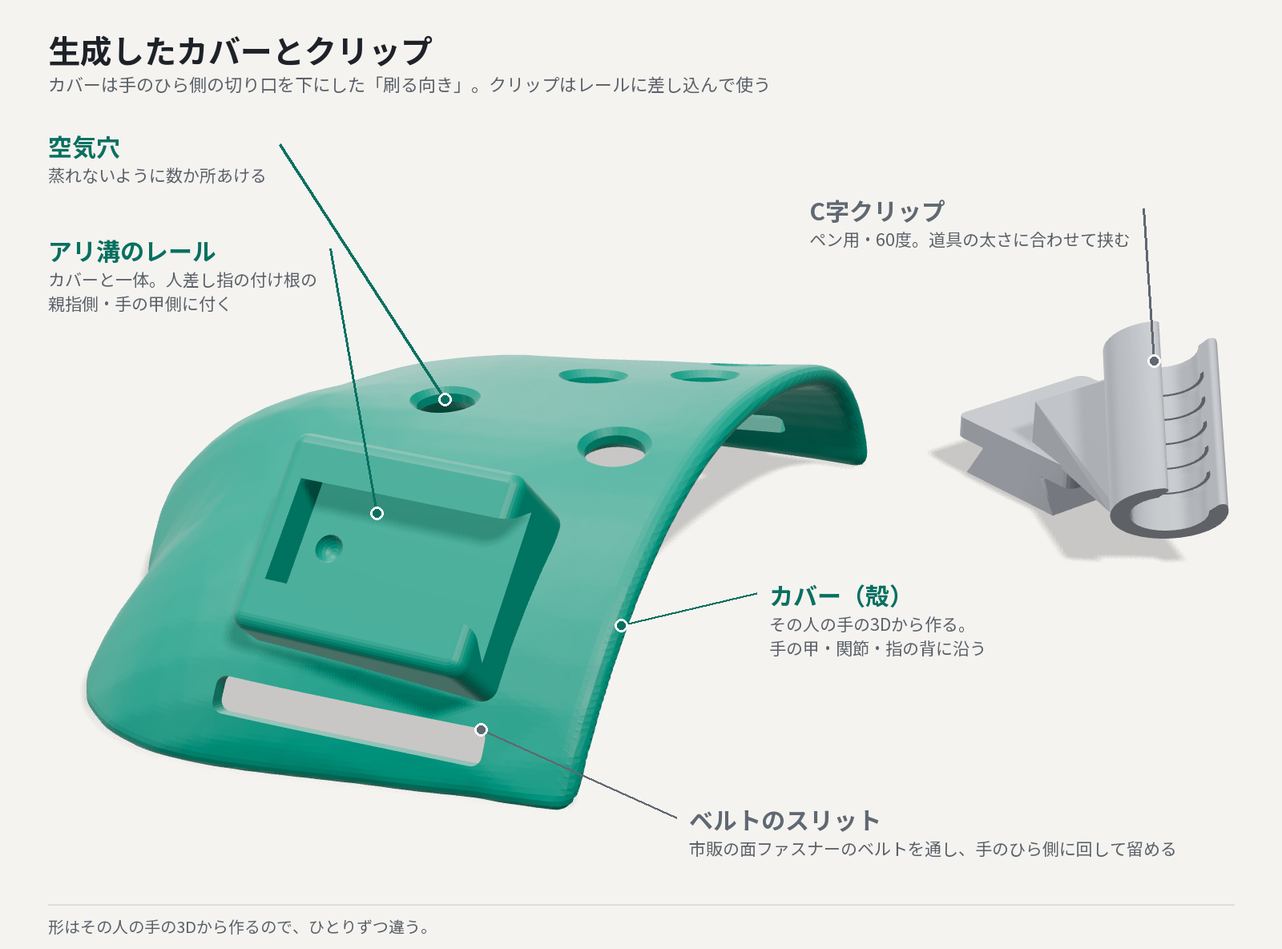
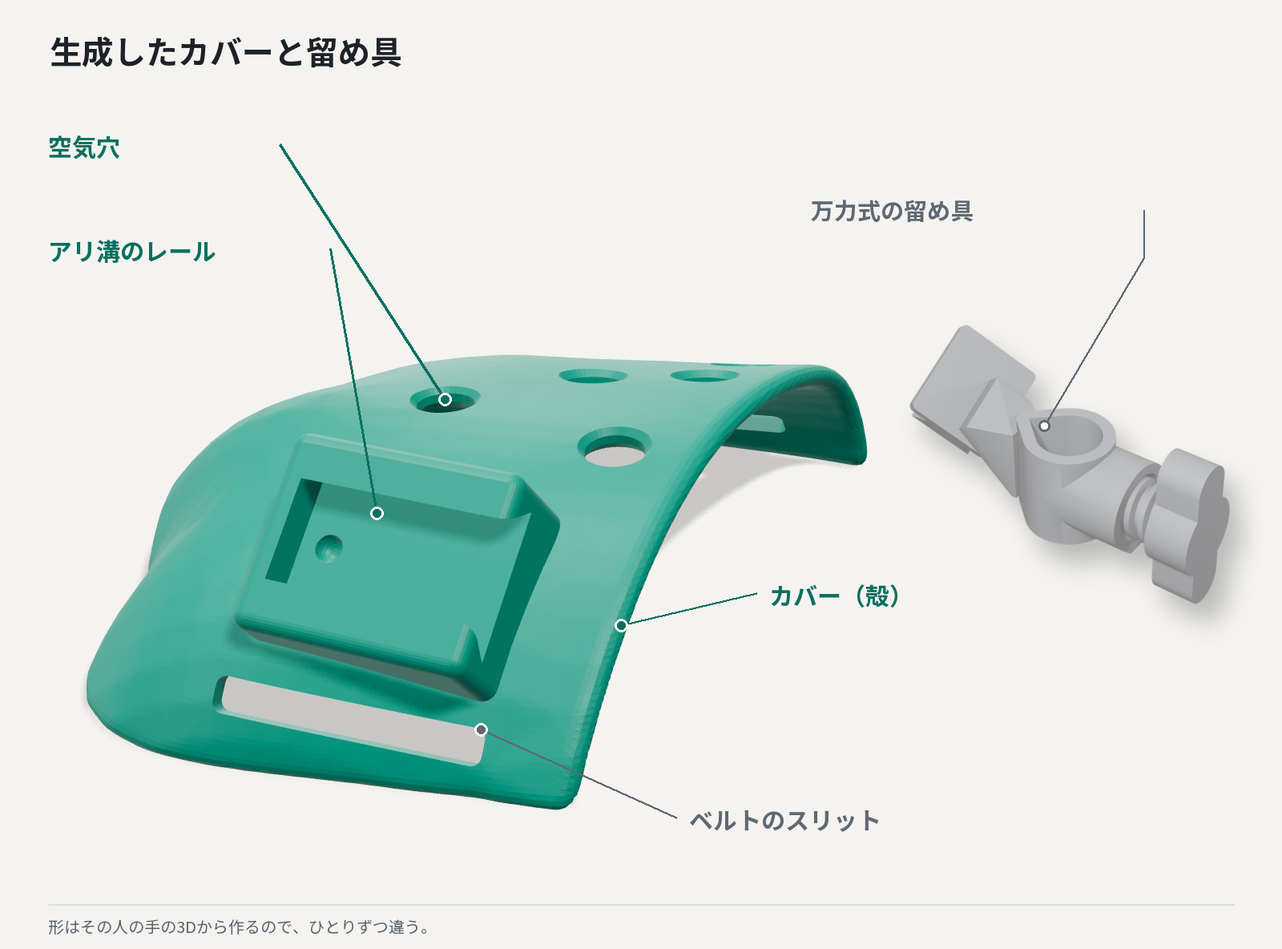
docs: 部品ライブラリを万力式の留め具に書き直す（全体の形の画像も差し替える）

diff --git a/docs/parts-library.md b/docs/parts-library.md
@@ -1,43 +1,45 @@
 # 部品ライブラリ（OpenSCAD）
 
 > **このドキュメントで決めたこと**
-> 1. 部品は、こぶしの外側にかぶせる「カバー」（空気穴・ベルトのスリット・アリ溝のレールを含む1つの部品）と、道具を挟む「C字クリップ」（道具ごと・角度ごとに刷る）、任意の「TPUの筒」にする。握り・ねじ締めコレット・ナットはやめる（[ADR-0011](adr/0011-dorsal-cover.md)・[ADR-0012](adr/0012-c-clip-dovetail.md)）。カバーの殻（`cover_shell.stl`）は生成APIのPythonが手の3Dメッシュから距離場で作り、OpenSCADはそれを `import()` して、スリット・空気穴・レールを付ける。
+> 1. 部品は、こぶしの外側にかぶせる「カバー」（空気穴・ベルトのスリット・アリ溝のレールを含む1つの部品）と、道具を挟む「万力式の留め具」（受け具とねじ。道具ごと・角度ごとに刷る）にする。留め具は 2026-11-24 に C字クリップから置き換えた（[ADR-0011](adr/0011-dorsal-cover.md)・[ADR-0012](adr/0012-c-clip-dovetail.md)・[ADR-0015](adr/0015-vise-holder.md)）。カバーの殻（`cover_shell.stl`）は生成APIのPythonが手の3Dメッシュから距離場で作り、OpenSCADはそれを `import()` して、スリット・空気穴・レールを付ける。
 > 2. 部品の引数の名前・単位・既定値・範囲は、`scad/catalog.json` を唯一の正とする。生成APIの範囲チェック、Geminiへのプロンプト、この表は、すべてそこから作る。寸法はmm、角度は度。
-> 3. すき間（カバーとこぶし、アリ溝）、クリップのしめしろ、最小の厚さ、ふちの丸みなど、着け心地と刷れるかどうかを左右する値は人が固定し、AIには変えさせない。11/9 の試し刷りでは、前の版の3Dモデルで刷ったカバーがメンバーのこぶしに合った。今の版では刷っていないので、値は `catalog.json` で「仮」のまま（2026-11-10）。
+> 3. すき間（カバーとこぶし、アリ溝）、留め具のねじのすき間、最小の厚さ、ふちの丸みなど、着け心地と刷れるかどうかを左右する値は人が固定し、AIには変えさせない。11/9 の試し刷りでは、前の版の3Dモデルで刷ったカバーがメンバーのこぶしに合った。今の版では刷っていないので、値は `catalog.json` で「仮」のまま（2026-11-10）。
 
-関連：[measurement.md](measurement.md)（採寸値と手の3Dメッシュ）、[generation-pipeline.md](generation-pipeline.md)（範囲チェック、殻の作り方）、[ADR-0010](adr/0010-hand-mesh-fusion.md)（手の3Dメッシュ）、[ADR-0011](adr/0011-dorsal-cover.md)（カバー方式）、[ADR-0012](adr/0012-c-clip-dovetail.md)（C字クリップとアリ溝）、[ADR-0013](adr/0013-clip-angle-variants.md)（角度違いのクリップ）、[notes/2026-11-07-cover-shape.md](notes/2026-11-07-cover-shape.md)（チームのメモ）
+関連：[measurement.md](measurement.md)（採寸値と手の3Dメッシュ）、[generation-pipeline.md](generation-pipeline.md)（範囲チェック、殻の作り方）、[ADR-0010](adr/0010-hand-mesh-fusion.md)（手の3Dメッシュ）、[ADR-0011](adr/0011-dorsal-cover.md)（カバー方式）、[ADR-0012](adr/0012-c-clip-dovetail.md)（アリ溝。C字クリップは置き換え済み）、[ADR-0013](adr/0013-clip-angle-variants.md)（角度違い）、[ADR-0015](adr/0015-vise-holder.md)（万力式の留め具）、[notes/2026-11-07-cover-shape.md](notes/2026-11-07-cover-shape.md)（チームのメモ）
 
 ---
 
 ## 1. 全体の形
 
-![部品の全体の形：生成したカバー（空気穴・アリ溝のレール・ベルトのスリット付き）と、ペン用のC字クリップ](images/parts-overview.png)
+![部品の全体の形：生成したカバー（空気穴・アリ溝のレール・ベルトのスリット付き）と、ペン用の万力式の留め具](images/parts-overview.png)
 
-- 部品：①カバー（殻＋空気穴＋スリット＋レール。1つのSTL）②C字クリップ（道具の太さと角度ごとに1つのSTL）③TPUの筒（任意）④ベルト（市販の面ファスナー。刷らない）⑤フェルトかスポンジ（市販。カバーの内側に貼る）
+- 部品：①カバー（殻＋空気穴＋スリット＋レール。1つのSTL）②万力式の留め具（受け具とねじ。道具の太さと角度ごとに、2つを1枚に並べた1つのSTL）③ベルト（市販の面ファスナー。刷らない）④フェルトかスポンジ（市販。カバーの内側に貼る）
 - **座標**：手の座標系（[measurement.md §8.1](measurement.md#81-手の座標系)：原点＝手首の関節、x＝人差し指の付け根→小指の付け根、y＝手首→中指の付け根からx成分を除いた向き、z＝x×y）。殻の計算は正準形（右手は左右反転して左手として扱う。z は手のひら側）で行い、生成APIが最後に右手なら鏡像に戻してから `cover_shell.stl` と位置の値を書く。OpenSCADは**実際の手の座標**のまま描き、`hand` 引数で鏡像は取らない（二重に反転しないため）。そのため、右手と左手のカバーは自然に互いの鏡像になる
-- C字クリップとTPUの筒は、手の座標に関係なく、自分の座標（クリップの輪の軸をZ）で描く。左右で同じ形を使える（アリ溝の凸は左右対称）
-- 印刷の向き：カバーは手のひら側の切り口を下にして刷り、殻の内側にサポートを付ける（殻なので避けられない。跡はフェルトで隠れる）。クリップは舌（アリ溝の凸）の底を机に置く向きで、輪の下にサポートが要る（§4.5。2026-11-08 に横張り出しの形にしてから。それまでは「輪が机と平行」）。§7
+- 留め具は、レールの座標（§4.4）で描き、生成APIが `rail_origin`・`rail_frame` で手の座標へ置く。左手は `hand="left"` で描く（鏡に映すと、めねじが左ねじになりねじが入らない。ねじは左右で同じ）
+- 印刷の向き：カバーは手のひら側の切り口を下にして刷り、殻の内側にサポートを付ける（殻なので避けられない。跡はフェルトで隠れる）。留め具の受け具は道具の軸を立てた向きで刷り、レールに入る舌の下にサポートが要る。ねじはつまみを下にして刷る（§4.5）。§7
 
 ## 2. ファイル構成
 
 | パス | 中身 |
 |---|---|
-| `scad/main.scad` | 入口。全引数の既定値をトップレベル変数で宣言し、`mode` に応じて部品を描く。生成APIは `-D` でこの変数だけを上書きする |
+| `scad/main.scad` | 入口（カバー）。全引数の既定値をトップレベル変数で宣言し、`mode` に応じて部品を描く。生成APIは `-D` でこの変数だけを上書きする |
+| `scad/vise_main.scad` | 入口（留め具＝万力式）。`mode="clip"` で刷る並び（受け具とねじを1枚）、`mode="assembled"` で手の座標に組んだ形。ねじに使う BOSL2 を、カバーを描くときに読み込まないよう `main.scad` と分けた。`-D` の名前は同じ（`c_clip_tool_d_mm`・`c_clip_angle_deg`・`hand`・`rail_origin`・`rail_frame`・`quality`） |
 | `scad/parts/cover.scad` | カバー。`import(cover_shell_file)` で読んだ殻から、スリットと空気穴を引き、レールを足し、最後に `import(cover_keepout_file)`（手を c だけ広げた立体）を引いて、内側の面を守る |
 | `scad/parts/strap_slits.scad` | ベルトのスリット（引く形） |
 | `scad/parts/air_holes.scad` | 空気穴（引く形。両端の縁を0.8mm面取りする） |
 | `scad/parts/rail.scad` | アリ溝のレール（カバー側。溝と、止めの出っ張りを受けるくぼみ）。土台は殻の中へ入り込ませる（`RAIL_FOOT_MM`＝6mm。スリットを避けて台をずらしたときは `rail_foot_mm` で最大12mmまで深くする） |
-| `scad/parts/c_clip.scad` | C字クリップ（輪、入口の面取り、内側の溝、輪と板をつなぐ腕、アリ溝の凸と止めの出っ張り、角度。根元の切り欠きは 2026-11-08 にやめた）。TPUの筒の形（`tpu_sleeve_local`）もここにある |
-| `scad/parts/tpu_sleeve.scad` | TPUの筒だけを刷る試し用の入口（任意。MVPでは使わない） |
+| `scad/parts/vise_holder.scad` | 万力式の留め具（V字の受け、めねじのボス、T字のつまみのねじ。太さ `tool_d` から挟める範囲と形を決める） |
+| `scad/parts/holder_base.scad` | 留め具の土台（レールに入る舌と板、腕。道具の軸の向き。C字クリップの `clip_tongue` をそのまま使う） |
+| `scad/parts/c_clip.scad` | もとの C字クリップ。今はレールに入る舌（`clip_tongue`）と、道具の軸の向き（`clip_axis`）を留め具が使う |
 | `scad/lib/common.scad` | 固定値（§3）と、角を丸める共通処理 |
-| `scad/view.scad` | 確認用画像の描画専用。カバー・クリップのSTLを読み込み、手の3Dメッシュ（`hand_file`、半透明の肌色）と道具の目安（赤い棒）を添える |
+| `scad/view.scad` | 確認用画像の描画専用。カバー・留め具のSTLを読み込み、手の3Dメッシュ（`hand_file`、半透明の肌色）と道具の目安（赤い棒）を添える |
 | `scad/test_pieces/*.scad` | 試し刷り用の部品（§6） |
-| `scad/vendor/BOSL2/` | BOSL2（BSD 2-Clause）。同梱しているが、今の `.scad` はどれも読み込んでいない（アリ溝と角の丸めは `rail.scad`・`c_clip.scad`・`common.scad` で自前で描く）。ねじにも使わなくなった |
+| `scad/vendor/BOSL2/` | BOSL2（BSD 2-Clause）。留め具のねじ（台形ねじ M12・ピッチ3mm）を描くのに使う（`vise_main.scad` だけが読み込む） |
 | `scad/catalog.json` | 部品と引数の定義（§4の表の元データ）。生成APIとプロンプトが読む |
 
 `-D` で渡す変数の名前は `<部品ID>_<引数名>` とする（例：`cover_edge_radius_mm=2`）。配列は `[12.0,40.5,-8.2]`、真偽値は `true`/`false`、選択肢は `"cover"` のように文字列で渡す。位置と向き（スリット・空気穴・レールの中心と向き）は、生成APIが手のメッシュから計算した値を配列で渡す（§5）。ファイルのパス（`cover_shell_file`、`cover_keepout_file`、`view.scad` の `hand_file`）は、生成APIがジョブの作業フォルダの中に作ったファイルの絶対パスだけを渡す（[generation-pipeline.md §6.3](generation-pipeline.md#63-コマンドの組み立て)）。
 
-**殻はOpenSCADでは作らない**。手の3Dメッシュの面から一定の距離の層を、OpenSCADで作るには `minkowski()` か `offset` が要るが、数千〜1万面のメッシュでは数分〜数十分かかる。距離場で作れば十秒台で、切り口のふちも同時に丸められる（[generation-pipeline.md §6.2](generation-pipeline.md#62-殻cover_shellstlの作り方)）。そのため、**殻（と内側を守る立体）は生成APIのPython、穴・スリット・レール・クリップはOpenSCAD**と分ける。
+**殻はOpenSCADでは作らない**。手の3Dメッシュの面から一定の距離の層を、OpenSCADで作るには `minkowski()` か `offset` が要るが、数千〜1万面のメッシュでは数分〜数十分かかる。距離場で作れば十秒台で、切り口のふちも同時に丸められる（[generation-pipeline.md §6.2](generation-pipeline.md#62-殻cover_shellstlの作り方)）。そのため、**殻（と内側を守る立体）は生成APIのPython、穴・スリット・レール・留め具はOpenSCAD**と分ける。
 
 前の版のファイル `grip_body.scad`・`collet.scad`・`collet_nut.scad`・`thumb_rest.scad`・`strap_slot.scad`・`test_pieces/thread_test.scad`・`carve_test.scad`・`size_gauge.scad` は消す（握りとねじ締め式をやめたため）。
 
@@ -46,17 +48,16 @@
 | 名前 | 値 | 単位 | 理由・決め方 |
 |---|---|---|---|
 | `NOZZLE_MM` | 0.4 | mm | 一般的なノズルの径。大学のプリンタの実際の値は要確認 |
-| `MIN_WALL_MM` | 2.0 | mm | ノズル5本分。これより薄い壁は割れやすい。カバーの厚み、スリット・空気穴とふちの間の残り、クリップの壁の下限に使う |
+| `MIN_WALL_MM` | 2.0 | mm | ノズル5本分。これより薄い壁は割れやすい。カバーの厚み、スリット・空気穴とふちの間の残りの下限に使う |
 | `MIN_EDGE_RADIUS_MM` | 1.5 | mm | 手に当たる所の角の丸みの最小値（安全の決まり「角を丸める」） |
-| `MAX_OVERHANG_DEG` | 45 | 度 | サポートなしで刷れる張り出しの上限。クリップとカバーの外側に使う（カバーの内側はサポートを付ける） |
+| `MAX_OVERHANG_DEG` | 45 | 度 | サポートなしで刷れる張り出しの上限。カバーの外側に使う（カバーの内側と、留め具の舌の下はサポートを付ける） |
 | `HAND_CLEARANCE_MM`（c） | 1.5（仮） | mm | カバーの内側の面と、こぶしの面のすき間。**フェルトの厚みを含む**。採寸のずれと、メッシュが手の形の型に寄る分も吸収する。前の版の「握りのすき間0.5mm」とは役割が違う（握りは手が食い込む前提、カバーはかぶせるだけ）。`clearance_test` で1.0／1.5／2.0を比べる予定だった。11/9 は前の版の3Dモデルのカバーを刷ってこぶしに合ったが、今の版では刷っていないので仮のまま |
 | `FELT_THICKNESS_MM` | 1.0（要確認） | mm | 内側に貼るフェルトかスポンジの厚み（市販品）。c に含める。実際の品を決めてから直す |
 | `DOVETAIL_CLEARANCE_MM` | 0.25（仮） | mm | アリ溝のすき間（片側）。`dovetail_test` で0.2／0.25／0.3を比べる予定だった。値は仮のまま（2026-11-10） |
-| `CLIP_INTERFERENCE_MM` | 0.3（仮） | mm | クリップの内径を道具の太さより小さくする量（しめしろ）。`clip_test` で0.2／0.3／0.4を比べる予定だった。値は仮のまま（2026-11-10） |
-| `CLIP_ENTRY_CHAMFER_DEG` | 30 | 度 | クリップの入口（開き）の面取りの角度。押し込む力を減らす |
-| `CLIP_ROOT_NOTCH_MM` | 0.6 | mm | （使っていない。2026-11-08 に切り欠きをやめた：応力が集まって割れやすくなるため）開きの反対側（根元）の外側に入れる切り欠きの深さ |
-| `CLIP_GROOVE` | 幅1.0・深さ0.4・間隔3.0 | mm | `grip_ribs=true` のときの、内側の細い溝（道具が滑りにくくなる） |
-| `TPU_SLEEVE_WALL_MM` | 1.2（仮） | mm | TPUの筒の厚み |
+| `VISE_SCREW_SLOP_MM` | 0.10 | mm | 留め具のねじのすき間（BOSL2 の `$slop`）。2026-11-24 の試し刷り（PLA）で回った値（`scad/parts/vise_holder.scad`） |
+| `VISE_RANGE_MM` | 2.5 | mm | 1つの留め具で挟める太さの幅（聞き取りの太さから上下に） |
+| `VISE_DMAX_MIN_MM` | 12 | mm | 受け具の穴の大きさの下限（いちばん太い道具の太さで）。ねじ（直径12mm）が通るため |
+| `CLIP_INTERFERENCE_MM`・`CLIP_ENTRY_CHAMFER_DEG`・`CLIP_ROOT_NOTCH_MM`・`CLIP_GROOVE`・`TPU_SLEEVE_WALL_MM` | — | — | C字クリップとTPUの筒の値。留め具を万力式にしてからは使っていない（`catalog.json` には残してある） |
 | `WRIST_FREE_MM` | 25 | mm | 手首の関節から、カバーが来てはいけない距離（y の向き）。`wrist_cut_mm` の下限。手首の動きを妨げない（安全の決まり） |
 | `THUMB_EXTRA_MM` | 2.0 | mm | 親指のカプセルを、c＋t よりさらに太らせて避ける量（親指を包まない） |
 | `CAVITY_VOXEL_MM` | 0.5 | mm | 殻を作るときの距離場の格子の間隔。名前は第1弾のくり抜き（cavity）のまま使う。0.5mmで、くり抜きのスパイクでは約140万点・約12秒 |
@@ -95,7 +96,7 @@
 | `shell_file`（殻。手の座標、mm、閉じた面のSTL） | パス | — | 生成APIが作業フォルダに作った `cover_shell.stl` だけ | 採寸（生成APIが作る。[generation-pipeline.md §6.2](generation-pipeline.md#62-殻cover_shellstlの作り方)） | 変えられない（Geminiの出力にも含めない） |
 | `keepout_file`（手を c だけ広げた立体。内側の面を守る） | パス | — | 生成APIが作った `cover_keepout.stl` だけ | 採寸 | 変えられない |
 
-- 殻の形（`cover_shell.stl`）は、手のメッシュと c・t・`palm_cut_offset_mm`・`wrist_cut_mm`・`edge_radius_mm` で決まる。この5つのどれかを変えたら作り直す（10〜40秒の見込み）。空気穴・スリット・レール・クリップだけの変更では作り直さない
+- 殻の形（`cover_shell.stl`）は、手のメッシュと c・t・`palm_cut_offset_mm`・`wrist_cut_mm`・`edge_radius_mm` で決まる。この5つのどれかを変えたら作り直す（10〜40秒の見込み）。空気穴・スリット・レール・留め具だけの変更では作り直さない
 - `keepout_file` は手のメッシュと c だけで決まり、採寸の版ごとに1回作る
 
 ### 4.2 空気穴 `air_holes`（必須）
@@ -127,61 +128,53 @@
 | `depth_mm`（溝の深さ） | mm | 4 | 固定 |
 | `length_mm` | mm | 24 | 固定 |
 | `dovetail_deg`（アリ溝の角度。溝の壁と底のなす角） | 度 | 60 | 固定 |
-| `detent_mm`（止めの出っ張りの高さ。クリップ側に凸、レール側にくぼみ） | mm | 0.6 | 固定 |
+| `detent_mm`（止めの出っ張りの高さ。留め具側に凸、レール側にくぼみ） | mm | 0.6 | 固定 |
 | `origin`・`frame`（レールの位置と向き） | mm[3]・[3][3] | — | ルール（§5：人差し指の中手骨の、親指側かつ手の甲側の外面。長さの向きは手の y（手首→指先）、外向きは正準形の −x と −z の間の45度に固定） |
 
-- レールは、クリップを差し替える受け口なので、寸法は全部固定にし、AIには変えさせない（すべてのクリップと合わなくなるため）。すき間 `DOVETAIL_CLEARANCE_MM` はクリップの凸の側で取る
+- レールは、留め具を差し替える受け口なので、寸法は全部固定にし、AIには変えさせない（すべての留め具と合わなくなるため）。すき間 `DOVETAIL_CLEARANCE_MM` は留め具の凸（舌）の側で取る
 - 土台は殻の中へ `RAIL_FOOT_MM`（6mm）入り込ませて一体にし（スリットを避けて台をずらしたときは `rail_foot_mm` で最大12mm）、内側へ出た分は `keepout_file` で削る（手に当たらない）。手のひら側の面より先に出た角も `cover_palm_plane` で切る
-- レールの両端と角は `MIN_EDGE_RADIUS_MM` 以上で丸める。溝は手首側（−Y）の端が開き、指先側の端は閉じている。クリップは手首側の端から溝に沿って差し込む。止めのくぼみは、閉じた端の壁から3mmの位置
+- レールの両端と角は `MIN_EDGE_RADIUS_MM` 以上で丸める。溝は手首側（−Y）の端が開き、指先側の端は閉じている。留め具は手首側の端から溝に沿って差し込む。止めのくぼみは、閉じた端の壁から3mmの位置
 
-### 4.5 C字クリップ `c_clip`（必須）
+### 4.5 万力式の留め具 `c_clip`（必須）
+
+2026-11-24 に C字クリップから置き換えた（[ADR-0015](adr/0015-vise-holder.md)）。部品の ID と引数の名前は今まで通り `c_clip`。V字の受けに道具の柄を寄せ、T字のつまみの付いたねじで押し付けて挟む。ねじで締めるので、刷りの誤差が締まり具合に効かない。
 
 | 引数 | 単位 | 既定値 | 範囲 | 決め方 | AIが変えてよい幅 |
 |---|---|---|---|---|---|
 | `tool_d_mm`（道具の柄の太さ） | mm | 聞き取りの値 | 3〜20 | 聞き取り | 変えられない |
-| `inner_d_mm`（輪の内径） | mm | `tool_d_mm − CLIP_INTERFERENCE_MM`（TPUの筒を使うときは筒の外径） | — | ルール | 変えられない |
-| `wall_mm`（輪の壁の厚さ） | mm | 2.0 | （1.6〜3.0。`clip_test` で決め直す予定だったが、2.0 のまま。2026-11-10） | 固定（2026-11-08） | 変えられない |
-| `opening_ratio`（開きの幅 ÷ 道具の太さ） | 比 | 0.75 | （0.70〜0.80） | 固定（2026-11-08） | 変えられない |
-| `height_mm`（輪の高さ＝道具を挟む長さ） | mm | 20（2026-11-08 に 12 から） | （8〜20） | 固定（2026-11-08） | 変えられない |
-| `angle_deg`（道具の立て具合＝机に対する傾き） | 度 | やりたいことから（§5） | 60／70／80（2026-11-08 に 0／20／40 から変えた） | AI（理由を書く）・ユーザーがプレビューで変えられる | 選択肢の中で自由 |
-| `grip_ribs`（内側の細い溝） | 真偽 | true | — | 固定（2026-11-08） | 変えられない |
-| `count`（クリップの数） | 個 | 1 | 1〜2 | AI（先が細くなる筆の柄なら2を勧める） | 範囲内なら自由（レールは1本なので、2個目は同じ形の予備。形の計算では使っていない） |
-| `tpu_sleeve`（内側にTPUの筒を入れる） | 真偽 | false | — | 固定（MVPでは使わない。2026-11-08） | 変えられない |
+| `angle_deg`（道具の立て具合＝机に対する傾き） | 度 | やりたいことから（§5） | 60／70／80 | AI（理由を書く）・ユーザーがプレビューで変えられる | 選択肢の中で自由 |
+| `count`（留め具の数） | 個 | 1 | 1〜2 | AI（先が細くなる筆の柄なら2を勧める） | 範囲内なら自由（レールは1本なので、2個目は同じ形の予備。形の計算では使っていない） |
+| `inner_d_mm`・`wall_mm`・`opening_ratio`・`height_mm`・`grip_ribs`・`tpu_sleeve` | — | — | — | 固定（C字クリップの引数。万力式では使わない） | 変えられない |
 
-- **先に作っておいた固定STLから選ぶ**（[ADR-0012](adr/0012-c-clip-dovetail.md) の 4.）：道具の太さ 4〜16mm を 0.25mm 刻み × 角度 60／70／80度 の147個（右手の形。左手はレールの座標で X を反転した鏡像を使う）を、コンテナを作るときに `python -m app.geometry.cliplib` で描いて `scad/library/c_clip/` に置く（`<variant>.print.stl`＝刷る向き、`<variant>.rail.stl`＝レールの座標、`index.json`＝引数・sha256・R6fの結果）。生成のときは `tool_d_mm` を刻みに丸めて選び、プレビューはレールの位置へ動かすだけ、印刷用はファイルをそのまま使う（版に `clip.variant` を残す）。刻みの外や固定値と違う引数のときだけ、その場で OpenSCAD で描く
-- 形：輪（内径 `inner_d_mm`、外径 `inner_d_mm + 2 × wall_mm`、高さ `height_mm`）の一部を、幅 `opening_ratio × tool_d_mm` で開けた C の形。入口を `CLIP_ENTRY_CHAMFER_DEG` で面取りし、`grip_ribs` なら内側に `CLIP_GROOVE` の溝を付ける（根元の切り欠き `CLIP_ROOT_NOTCH_MM` は 2026-11-08 にやめた。差し込むときの応力が集まり、見積もりで 27→37MPa と PLA の積層の境目の強さを超えるため）。**ペンは上から（軸の向きに）差し込む**。開きから横に押し込むと、輪の応力が約61MPaになり PLA の強さを超える（割れるおそれ）。輪の高さ20mmは、ペン先までのてこ（約90mm）でのぐらつきを減らすため（ペン先を横に2N押したときの輪の端の力：12mm で約15N → 20mm で約9N。締め付けの摩擦は約13N → 約21N）。輪の背に、レールに差し込むアリ溝の凸（レールの溝から `DOVETAIL_CLEARANCE_MM` を引いた形、長さ `rail.length_mm − 1`）と、止めの出っ張りを付ける
-- 形の続き（2026-11-08、横張り出し）：輪はレールの上面の中心から**親指側へ20mm・手のひら側へ6mm・指先側へ5mm**張り出した所に置き、板の上の太い根元の台（8×12mm・高さ5mm）から輪へ向かって細くなる腕（輪の側で幅6mm）でつなぐ（ペンを押す力は根元に集まるので、根元を太くする。板も2.5mmに厚くした）。レールの外向きは手の甲の法線と親指側の横向きのちょうど間（45度）なので、レールの座標では 手の甲向き＝`[s·side, 0, s]`、親指側＝`[−s·side, 0, s]`、指先向き＝`[0, 1, 0]`（s＝1/√2、side は右手 +1・左手 −1。左右は鏡像）
-- 角度：机に手の甲を上にして置いた姿勢での、机に対する道具の傾き（90度が垂直）。道具の軸＝`指先向き·cos(角度) − 手の甲向き·sin(角度)`。開きは親指側（外側から押し込む）。道具はこぶしの親指側の横を通り、人差し指の付け根の横あたりで机に届く（[ADR-0013](adr/0013-clip-angle-variants.md)）。描いたあとに R6h で手・カバーとのすき間と机に届く距離を測る
-- 刷る向き：舌（アリ溝の凸）の底を机に置く。輪は約50度傾いて宙に出るので、スライサーのサポートが要る（R6f_overhang に出る）
+- **挟める太さ**：`tool_d_mm ± 2.5mm`。ただし受け具の穴は、ねじ（直径12mm）が通る大きさ（いちばん太い道具12mm用、穴の径13mm）より小さくしない。そのため、聞き取りの太さが9.5mm以下なら上限は12mm。細い道具（挟める下限が約5.4mm未満）では、ねじの先を直径6mmに細くして、V字の奥まで届かせる
+- **形**：受け具は、手の側（レールの側）を90度のV字にした穴と、外側（親指側）に伸ばしためねじのボス（台形ねじ M12・ピッチ3mm、すき間 `$slop` 0.10）。高さ（道具を挟む長さ）は20mm、穴のまわりの肉は2.5mm。ねじは長さを「いちばん細い道具に届き、つまみが受け具から3mm離れる」に合わせ、T字のつまみ（長さ32mm・太さ9mm）を付ける
+- **置き場所**：受け具の中心はレールの上面の中心から**親指側へ26mm・手のひら側へ6mm・指先側へ5mm**（穴が12mm用のとき）。手の側の端（腕を付ける所）は太さによらず同じ所に置き、太い道具では外へ広げる（手との距離が変わらない）。レールの座標では 手の甲向き＝`[s·side, 0, s]`、親指側＝`[−s·side, 0, s]`、指先向き＝`[0, 1, 0]`（s＝1/√2、side は右手 +1・左手 −1）
+- **角度**：机に手の甲を上にして置いた姿勢での、机に対する道具の傾き（90度が垂直）。道具の軸＝`指先向き·cos(角度) − 手の甲向き·sin(角度)`。道具はこぶしの親指側の横を通り、人差し指の付け根の横あたりで机に届く（[ADR-0013](adr/0013-clip-angle-variants.md)）。描いたあとに R6h で手・カバーとのすき間と、机までの長さ（留め具から120mm以内。道具を差し込む深さを変えられるため）を測る
+- **刷る向き**：受け具は道具の軸を立てて刷る（めねじの山を崩さないため）。ねじのボスの下は45度の斜面で机まで伸ばしてあるので、サポートはレールに入る舌の下だけ。ねじはつまみを下にして立てて刷る。印刷用のSTLは、受け具とねじを1枚に並べた1つのファイル
+- **生成**：生成のたびに `scad/vise_main.scad` で描く（1つ0.5秒ほど）。C字クリップのときの、先に作っておいた固定STLのライブラリ（`cliplib`）はやめた。描いたあと、閉じた立体で受け具とねじの2つになっているかを R6f で確かめる
 - 角度ごと・道具ごとに別のSTLにする。差し替えて使い分けられる
 
-### 4.6 TPUの筒 `tpu_sleeve`（任意）
+### 4.6 TPUの筒 `tpu_sleeve`（使わない）
 
-| 引数 | 単位 | 値 | 決め方 |
-|---|---|---|---|
-| `inner_d_mm` | mm | `tool_d_mm − 0.2` | ルール |
-| `outer_d_mm` | mm | `inner_d_mm + 2 × TPU_SLEEVE_WALL_MM`（＝クリップの内径） | ルール |
-| `length_mm` | mm | クリップの `height_mm` | ルール |
-
-外側の受け具（クリップ）はPLAかPETGで硬く、挟むのはTPUの筒に任せる。太さの違う道具には、TPUの筒だけ刷り直せばよい（[ADR-0012](adr/0012-c-clip-dovetail.md)）。
+C字クリップの輪の内側に入れる部品だった。留め具を万力式にしたので作らない（AIが選んでも生成APIが外す。2026-11-24）。
 
 ### 4.7 全体の引数（`main.scad`）
 
 | 引数 | 選択肢 | 既定値 | 意味 |
 |---|---|---|---|
 | `hand` | `right` / `left` | `right` | 選択式Q2の答え。記録と確認用。形の鏡像は、生成APIが殻と位置の値で済ませている（§1） |
-| `mode` | `cover` / `clip` / `sleeve` / `assembled` | `assembled` | `cover`・`clip`・`sleeve`＝その部品だけを、刷る向きで描く（ダウンロード用）。`assembled`＝手の座標に置いた状態（プレビューと確認用画像）。描く部品は `part`（`cover`／`c_clip`／`tpu_sleeve`）で1つ選ぶ。生成APIは部品ごとに別々に描く |
-| `part` | `cover` / `c_clip` / `tpu_sleeve` | `cover` | `assembled` のときに描く部品 |
+| `mode` | `cover` / `clip` / `assembled` | `assembled` | `cover`・`clip`＝その部品だけを、刷る向きで描く（ダウンロード用）。`assembled`＝手の座標に置いた状態（プレビューと確認用画像）。カバーは `main.scad`、留め具は `vise_main.scad` で描く。生成APIは部品ごとに別々に描く |
+| `part` | `cover` / `c_clip` | `cover` | `assembled` のときに描く部品 |
 | `quality` | `preview` / `print` | `preview` | 円の分割数（§3） |
 
 ### 4.8 組み合わせのルール（範囲チェックのR4・R5）
 
 - `wrist_cut_mm ≥ WRIST_FREE_MM`（手首を覆わない。安全のルールなのでR5）。`wrist_cut_mm ≤ |0-9| − 15`（指の付け根の関節の山を覆える長さを残す）
 - `edge_radius_mm ≥ MIN_EDGE_RADIUS_MM`、かつ `edge_radius_mm ≤ cover_thickness_mm × 1.5`（厚みに比べて丸みが大きすぎると、ふちが細くなる）
-- クリップ：`opening_ratio × tool_d_mm < tool_d_mm − 0.5`（道具が開きから抜けない）。`inner_d_mm > 2`。`tpu_sleeve=true` のとき `tool_d_mm ≥ 4`（筒の厚みが取れない）
+- 留め具：`tool_d_mm` は 3〜20mm。形の引数は固定なので、組み合わせのルールはない（描いたあと R6f で、閉じた立体で受け具とねじの2つになっているかを確かめる）
 - スリット：2本のとき、2つのスリットの間を `strap_width_mm + 8` 以上あける。スリットとカバーのふちの間は `MIN_WALL_MM` 以上（位置はルールで決めるので、描いたあとのR6で確かめる）
 - 空気穴：穴どうしは4mm以上、穴と関節の山・スリット・レールの間は6mm以上（[measurement.md §8.3](measurement.md#83-カバーの目印手の座標系の上)）、穴とふちの間は `MIN_WALL_MM` 以上（ルールで位置を決めるとき守る）
-- 造形サイズ：カバーの外形と、クリップを刷る向きの外形が `BED_MM` に収まる（描く前は手のメッシュの外接箱から見積もり、描いたあとR6で確かめる）
+- 造形サイズ：カバーの外形と、留め具を刷る並びの外形が `BED_MM` に収まる（描く前は手のメッシュの外接箱から見積もり、描いたあとR6で確かめる）
 
 ## 5. 採寸値との対応
 
@@ -194,18 +187,19 @@
 | `cover.wrist_cut_mm` | `clamp(0.40 × |0-9|, WRIST_FREE_MM, |0-9| − 15)` | 手首→中指の付け根の長さ（メッシュの関節） | 手の甲の手首側の約4割は覆わず、手首を自由にする。40%は仮の値（今の版のカバーではまだ着けて確かめていない。2026-11-10） |
 | `cover` の目印（`z_pip`・`x_index`・親指のカプセル） | [measurement.md §8.3](measurement.md#83-カバーの目印手の座標系の上) のとおり | 手の3Dメッシュの関節 | §4.1 |
 | `cover.cover_thickness_mm` | 2.5（既定） | — | 2.0mm（ノズル5本分）に余裕を足した。軽さを求める要望があればAIが薄くする |
-| `strap_slits.centers`・`normals` | 親指側と小指側の側面で、y ＝ **手ごとの「手のひらだけを通る通り道」の真ん中**（親指の下にベルトをくぐらせられ、曲げた指先がまだ来ない範囲。[measurement.md §8.3](measurement.md#83-カバーの目印手の座標系の上)。2026-11-08。見つからなければ 70%、2本なら45%と72%。上限・下限はふちの肉を残す所）、高さ ＝ 手のひら側のふちから `MIN_WALL_MM`＋スリットの半分＋`edge_radius_mm`＋0.5mm 手の甲側。その高さでいちばん外側の点を、壁の中ほどまで寄せる。抜く向きは外面の法線（下向き成分は0.7までに抑え、横〜斜め下へ抜く）。描いたあとに、穴の中の点がカバーの中にないか（穴が開いているか）を測り、10%を超えてふさがれていれば `R6e_slit_open`（警告）にして `needs_attention`（開いた穴でも縁の近くが3〜5%ほど「中」と出るため。2026-11-10 に2%から変えた）。描く前の箱どうしの距離 `R6e_slit_rail` は目安（情報）。**スリットにレールの台がかかるとき**は、スリットは動かさず、台の向きは変えずに台を手の甲側へ1mmずつずらし、1mm以上離れる所に置く（2026-11-10）。ずらすと道具も握った指へ近づくので、主な取り付け具の角度で太さ11.5mmの道具が手から2mm以上離れ（ずらす前に足りなければそれより近づかず）、机に届く所まで（最大20mm）。台が面から傾くので、溝の下に殻が来ない高さまで持ち上げ、浮いた側は土台（`rail_foot_mm`、ふつう6mm、最大12mm）を深くして殻に届かせる。離しきれなければずらさない（途中までずらしても穴は開かず、道具だけが近づいた） | 手の3Dメッシュ、殻、レールの位置 | 中手骨の中ほどで、ベルトが関節にかからず、手のひらの真ん中を通る。手の甲側の角にあるレールの台と重ならない（2026-11-08。前は角に置いて塞がれた） |
+| `strap_slits.centers`・`normals` | 親指側と小指側の側面で、y ＝ **手ごとの「手のひらだけを通る通り道」の真ん中**（親指の下にベルトをくぐらせられ、曲げた指先がまだ来ない範囲。[measurement.md §8.3](measurement.md#83-カバーの目印手の座標系の上)。2026-11-08。見つからなければ 70%、2本なら45%と72%。上限・下限はふちの肉を残す所）、高さ ＝ 手のひら側のふちから `MIN_WALL_MM`＋スリットの半分＋`edge_radius_mm`＋0.5mm 手の甲側。その高さでいちばん外側の点を、壁の中ほどまで寄せる。抜く向きは外面の法線（下向き成分は0.7までに抑え、横〜斜め下へ抜く）。描いたあとに、穴の中の点がカバーの中にないか（穴が開いているか）を測り、10%を超えてふさがれていれば `R6e_slit_open`（警告）にして `needs_attention`（開いた穴でも縁の近くが3〜5%ほど「中」と出るため。2026-11-10 に2%から変えた）。描く前の箱どうしの距離 `R6e_slit_rail` は目安（情報）。**スリットにレールの台がかかるとき**は、スリットは動かさず、台の向きは変えずに台を手の甲側へ1mmずつずらし、1mm以上離れる所に置く（2026-11-10）。ずらすと道具も握った指へ近づくので、主な取り付け具の角度で太さ11.5mmの道具が手から2mm以上離れ（ずらす前に足りなければそれより近づかず）、机に届く（留め具から120mm以内）所まで（最大20mm）。台が面から傾くので、溝の下に殻が来ない高さまで持ち上げ、浮いた側は土台（`rail_foot_mm`、ふつう6mm、最大12mm）を深くして殻に届かせる。離しきれなければずらさない（途中までずらしても穴は開かず、道具だけが近づいた） | 手の3Dメッシュ、殻、レールの位置 | 中手骨の中ほどで、ベルトが関節にかからず、手のひらの真ん中を通る。手の甲側の角にあるレールの台と重ならない（2026-11-08。前は角に置いて塞がれた） |
 | `strap_slits.axes` | y の向き（スリットの長い辺が手首→指先の向き） | — | ベルトが手の幅の向きに回る |
 | `air_holes.centers` | [measurement.md §8.3](measurement.md#83-カバーの目印手の座標系の上) の範囲（手の甲で、y ＝ `wrist_cut_mm + 8` 〜 付け根の y の最小値 − 10）に格子状に候補を置き、§4.8 の間隔を守るものから `count` 個を選ぶ。向きはカバーの外面の法線 | 手の3Dメッシュ、殻 | 汗がこもりやすい手の甲に開け、関節の山・スリット・レールは避ける |
-| `rail.origin`・`rail.frame` | 人差し指の中手骨（手首→付け根）の72%の点から、親指側かつ手の甲側（正準形で −x と −z の間の45度の向き）へ光線を出し、その近く（3mm以内）にあるカバーの外面の点のうち一番遠いものを台の置き場にする（見つからなければ基節の半径＋c＋t だけ進んだ点）。原点はそこからレールの高さだけ外の、溝の口の中心。レールの長さの向きは手の y（手首→指先）、外向きは上の45度の向きに固定する（2026-11-08。前は基節・中手骨の向きにしていたが、手ごとにクリップの向きがずれたため。`api/app/geometry/handframe.py` の `rail_direction`）。スリットにかかるときは台を手の甲側へずらす（上の `strap_slits` の行） | 手の3Dメッシュの関節、殻 | 筆先が人差し指の指先の近くに来る位置に道具を付ける（メモ §3.4）。握りこぶしで基節の外面が平らに近い所 |
-| `c_clip.tool_d_mm` | 聞き取りの値そのまま | 選択式Q3（道具の太さ、mm） | 道具の太さぴったりのクリップを刷る（手だけでなく道具にも合わせる） |
+| `rail.origin`・`rail.frame` | 人差し指の中手骨（手首→付け根）の72%の点から、親指側かつ手の甲側（正準形で −x と −z の間の45度の向き）へ光線を出し、その近く（3mm以内）にあるカバーの外面の点のうち一番遠いものを台の置き場にする（見つからなければ基節の半径＋c＋t だけ進んだ点）。原点はそこからレールの高さだけ外の、溝の口の中心。レールの長さの向きは手の y（手首→指先）、外向きは上の45度の向きに固定する（2026-11-08。前は基節・中手骨の向きにしていたが、手ごとに留め具の向きがずれたため。`api/app/geometry/handframe.py` の `rail_direction`）。スリットにかかるときは台を手の甲側へずらす（上の `strap_slits` の行） | 手の3Dメッシュの関節、殻 | 筆先が人差し指の指先の近くに来る位置に道具を付ける（メモ §3.4）。握りこぶしで基節の外面が平らに近い所 |
+| `c_clip.tool_d_mm` | 聞き取りの値そのまま | 選択式Q3（道具の太さ、mm） | 道具の太さに合わせた留め具を刷る（手だけでなく道具にも合わせる）。1つで太さ±2.5mmを挟める |
 | `c_clip.angle_deg` | `brush`（絵・字）＝70、`pen`＝60、`spoon`＝60（AIがやりたいことと理由から、60／70／80の中で選び直してよい。2026-11-08） | 選択式Q1・道具の種類 | 筆は立て気味、ペンは少し寝かせる。スプーンは未検証。値は仮のまま（2026-11-10。`api/app/attachments.py` の `ANGLE_BY_TOOL`）。取り付け具が複数のときは、取り付け具ごとに決める（[ADR-0014](adr/0014-multiple-attachments.md)） |
 | `c_clip.count` | 1（先が細くなる筆の柄なら、AIが2を勧めてよい） | 道具の種類、チャットのメモ | 筆の柄は先へ向かって細くなるので、太さがほぼ一定の所を2か所で挟む |
-| `c_clip.tpu_sleeve` | false（固定。MVPでは使わない。2026-11-08 にクリップを固定STLにしたため） | — | 挟むのを柔らかいTPUに任せると、太さの合わせが楽で割れにくい（将来の改良） |
 | `strap_slits.strap_count` | 1（固定。2026-11-08 のチームの決定） | — | 2本にするとスリットが切れるため |
 | `hand` | そのまま | 選択式Q2の `hand_side` | — |
 
 ## 6. 試し刷り用の部品
+
+> 2026-11-24 追記：留め具を万力式にした。チームで万力式の試作（右手・70度・太さ6〜12mm用）を刷り、元の自助具に付けてペンをしっかり挟めることを確かめた（PLA、ねじのすき間 `$slop` 0.10）。下の `clip_test.scad` は C字クリップ用の記録。
 
 プリンタは11/9・11/10だけ使える。11/7 の計画では、11/9の朝いちばんにクリップとアリ溝の小さな試作を刷り、結果で固定値（§3）を決めてから、アプリで作ったカバーの1回目を刷る予定だった（[tasks.md §3](tasks.md#3-日程)）。
 
@@ -213,6 +207,7 @@
 
 | ファイル | 目的 | 内容 | 刷る順 |
 |---|---|---|---|
+| `test_pieces/holder_test.scad` | 留め具（万力式）を刷って試す（2026-11-24 に、右手・70度・太さ6〜12mm用を刷って確かめた） | `part="vise"`（受け具。刷る向き）・`part="vise_screw"`（ねじ）を、`tool_d_mm`・`angle_deg`・`hand` を変えて出す。`part="rail_stub"` でレールの短い台も出せる | 済 |
 | `test_pieces/clip_test.scad` | クリップの押し込みやすさ・保持・割れにくさと、しめしろを決める | デモで使う筆の柄の太さで、壁の厚さ1.6／2.0／2.4mm × しめしろ0.2／0.3／0.4mm の9個（本番と同じく舌の底を下にする向き）。数字を刻む。それぞれ数十回着け外しして、押し込む力・ひびの入り方・筆が回らないかを比べる。家族や介護する人が片手で楽に扱えるかも見る | 1 |
 | `test_pieces/dovetail_test.scad` | アリ溝のすき間と、止めの「カチッ」を決める | レールの短い台（長さ24mm）を、すき間0.2／0.25／0.3mmの3個と、それぞれに合うクリップの凸だけの部品。滑らせやすさ、がたつき、勝手に抜けないかを比べる | 2 |
 | `test_pieces/clearance_test.scad` | カバーとこぶしのすき間 c を決める | Bさんの手をアプリで撮って作った実寸の手のメッシュから、人差し指と中指の付け根の関節の山のまわりだけを、c ＝ 1.0／1.5／2.0mmで切り出した小さな殻を3個。フェルトを貼ってかぶせ、当たり・ゆるさを比べる | 3 |
@@ -220,17 +215,17 @@
 
 ## 7. 推奨の印刷設定
 
-| 項目 | カバー | C字クリップ | TPUの筒 |
-|---|---|---|---|
-| 材料 | PLA | PETGが望ましい（PLAより粘りがあり割れにくい）。使えなければPLA（根元の切り欠きは 2026-11-08 にやめた。応力が集まって割れやすいため。ペンは上から軸の向きに差し込む） | TPU（95A程度）。使えるかは要確認 |
-| 刷る向き | 手のひら側の切り口を下にする | 舌（アリ溝の凸）の底を下にする（印刷用STLはこの向きで出す。アリ溝の面がきれいに出る） | 筒の軸が縦 |
-| サポート | 殻の内側に付ける（木の形のサポート）。外側は付けない | 要る（輪が約50度傾いて宙に出るため） | なし |
-| 積層の厚さ | 0.2 mm | 0.12〜0.16 mm（入口の面取りと溝をきれいに出す） | 0.2 mm |
-| 外壁の数 | 3 | 4（小さい部品なのでほぼ中まで詰まる） | 3 |
-| 充填 | 15%、ジャイロイド | 100% | 100% |
-| ブリム | 5 mm（切り口の接地面が細いため） | なし | なし |
+| 項目 | カバー | 万力式の留め具（受け具とねじ） |
+|---|---|---|
+| 材料 | PLA | PETGが望ましい（ねじが粘り強くなる）。PLAでも刷れて使えた（2026-11-24 の試し刷り） |
+| 刷る向き | 手のひら側の切り口を下にする | ファイルの向きのまま（受け具は道具の軸が縦、ねじはつまみが下） |
+| サポート | 殻の内側に付ける（木の形のサポート）。外側は付けない | 受け具のレールに入る舌の下に付ける。ねじは要らない |
+| 積層の厚さ | 0.2 mm | 0.2 mm |
+| 外壁の数 | 3 | 4以上（ねじ山が中まで詰まる） |
+| 充填 | 15%、ジャイロイド | 40%以上 |
+| ブリム | 5 mm（切り口の接地面が細いため） | なし |
 
-- 大学のプリンタでPETG・TPUが使えるかは要確認（未決事項）
+- 大学のプリンタでPETGが使えるかは要確認（未決事項）
 - 刷ったあと、カバーの内側のサポートの跡をやすりで落とし、フェルトかスポンジを貼る（印刷ガイドに書く）
 
 ## 8. 安全のための作り込み
@@ -240,9 +235,9 @@
 - **握った指を無理に開かせない**：カバーは手の面から c 離れた外側にかぶせるだけにする。内側の面が手に食い込まないことを、描いたあとに確かめる（R6e）
 - **手のひら側は必ず開ける（装具にしない）**：手のひら側の切る面（`z_pip` の平面）に加えて、手のひらと指の腹を向いた面の上を必ず捨てる（§4.1。平面だけでは握りこぶしの手のひらが開かないため）。描いたあと、切る面より手のひら側に材料がないこと、手のひらを向いた面の上に材料がないことを自動で確かめる（R6c）。中節・末節は覆わず、指を固定する形にしない
 - **手首を覆わない**：`wrist_cut_mm ≥ 25`。描いたあと、手首から25mm以内に材料がないことを確かめる（R6d）
-- **角はすべて丸める**：殻のふちと切り口は、距離場のなめらかな共通部分で半径 `edge_radius_mm`（1.5mm以上）に丸める。空気穴の縁は0.8mm面取りし、スリットの穴は角を1.0mm丸めた長方形にする（縁の面取りはない）。レールの角は1.5mm以上で丸める。クリップの入口は面取りする
+- **角はすべて丸める**：殻のふちと切り口は、距離場のなめらかな共通部分で半径 `edge_radius_mm`（1.5mm以上）に丸める。空気穴の縁は0.8mm面取りし、スリットの穴は角を1.0mm丸めた長方形にする（縁の面取りはない）。レールの角は1.5mm以上で丸める。留め具のねじの先は面取りする
 - **内側にフェルトかスポンジを貼る**：すき間 c にフェルトの厚みを含めてある。印刷ガイドとダウンロードの画面で、貼り方を案内する
 - **痛みや赤みが出たら使うのをやめる**：ダウンロードの画面と印刷ガイドで案内する
-- **口に入れる部品は作らない**：スプーンを挟む場合、刷った部品が口に入らないよう、クリップから柄が60mm以上出るように画面で案内する（要検証）
+- **口に入れる部品は作らない**：スプーンを挟む場合、刷った部品が口に入らないよう、留め具から柄が60mm以上出るように画面で案内する（要検証）
 - **使う前にOTが確かめる**：これまでどおり（デモのケースは除く）。可能なら試し刷りの段階で一度見てもらう
-- 刷ったあと、クリップに道具を差して強く引き、抜けないこと、カバーにクリップを差して「カチッ」と止まり勝手に抜けないことを確かめるよう、印刷ガイドに書く
+- 刷ったあと、留め具に道具を差してねじを締め、強く引いても抜けないこと、カバーに留め具を差して「カチッ」と止まり勝手に抜けないことを確かめるよう、印刷ガイドに書く。ねじが緩んだら締め直す
